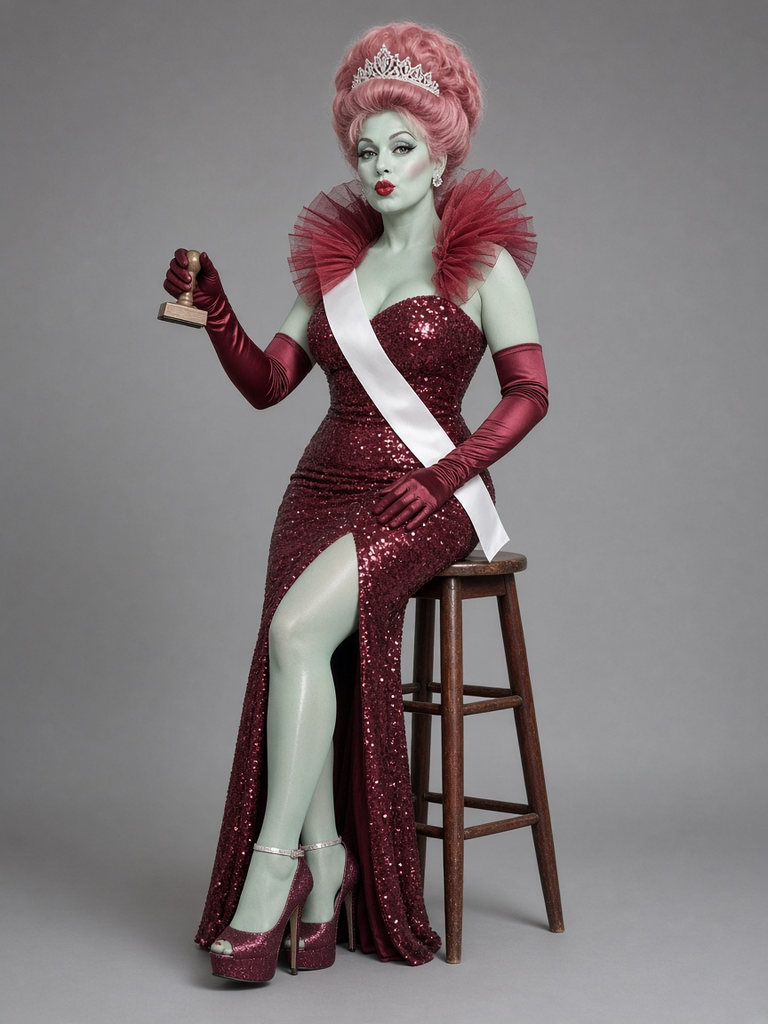
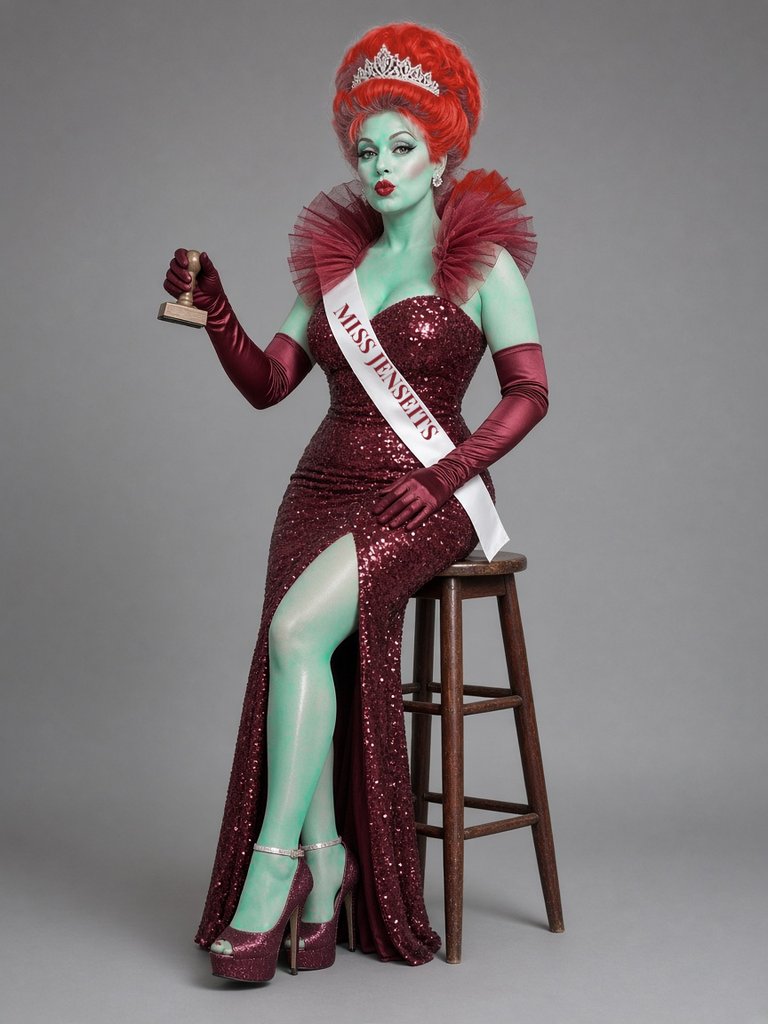
WIP Warteraum v7: Vertex-Licht für Figuren/Sofa, Licht angehoben, Königin teal/rot + Schärpe, Mittelsteg versetzt, Schirm-Verlauf, Handy-Tippen bis an die Hülle

diff --git a/v3/test/lib/gfx_warteraum.js b/v3/test/lib/gfx_warteraum.js
@@ -4,41 +4,50 @@
    Figuren-Hybrid: statische Körper (gebacken), bewegliche Teile (Kopf/Unterarm/Fuß/Buchseite) per Code um ihr Gelenk gedreht.
    Ton (WebAudio, positionsabhängig, startet nach der ersten Geste/VR-Start): Radio mit Fahrstuhlmusik (Kleinlautsprecher-Filter + Knistern),
    Leuchtstoff-Brummen, Uhr, Fallblatt-Klack + Ding, Husten/Blättern/Knarzen, dumpfe Stimmen/Schreibmaschine/Stempel aus dem Hinterbüro.
-   Debug: ?nolm=1 (ohne Lightmap) · ?lmg=1.2 (Lightmap-Gain) · ?mute=1 */
+   Debug: ?nolm=1 (ohne Lightmap) · ?lmg=1.2 (Lightmap-Gain) · ?lift=0.06 (Schatten-Anhebung) · ?vlg=1 (Vertex-Licht-Gain) · ?touchfix=0 · ?mute=1
+   v7 (1022w7): Figuren + Sofa tragen ihr Licht als gebackene Vertexfarbe (scene.json vl/vlScale) statt Lightmap → keine Flecken/Facetten mehr;
+   Lightmap angehoben (Film: gleichmäßiger, warm, Wände + Gesichter lesbar), Lampenschirme mit Verlauf + Falten, Handy-Tippen läuft bis an die Hülle. */
 (function(){
 const Q=location.search, num=(k,d)=>{ const m=Q.match(new RegExp('[?&]'+k+'=([\\d.]+)')); return m?+m[1]:d; };
 const BASE='../assets/warteraum/';
 AFRAME.registerComponent('warteraum',{
  init(){ const T=THREE, sc=this.el, self=this; this.t0=performance.now(); window.__wr={ready:false};
-  fetch(BASE+'scene.json?v=6b').then(r=>r.json()).then(S=>{ self.S=S; self.load(S); });
+  fetch(BASE+'scene.json?v=7b').then(r=>r.json()).then(S=>{ self.S=S; self.load(S); });
   this.loco(); this.audioArm(); },
  load(S){ const T=THREE, sc=this.el, self=this, R=sc.renderer;
-  const lm=new T.TextureLoader().load(BASE+'lm.jpg?v=6b'); lm.flipY=false; lm.channel=1; lm.colorSpace=T.SRGBColorSpace;
-  const LMI=Math.PI*(S.lmScale||1)*num('lmg',0.95); // v4 (Beetle): keine Neonröhren mehr – Licht kommt aus warmen Stehlampen, Sternleuchten, roter Pendel-Traube (alles gebacken)
-  const el=document.createElement('a-entity'); el.setAttribute('gltf-model',BASE+'warteraum.glb?v=6b'); sc.appendChild(el);
+  const lm=new T.TextureLoader().load(BASE+'lm.jpg?v=7b'); lm.flipY=false; lm.channel=1; lm.colorSpace=T.SRGBColorSpace;
+  const LMI=Math.PI*(S.lmScale||1)*num('lmg',1.0), LIFT=num('lift',0.05), VLN=new Set(S.vl||[]), VLG=(S.vlScale||1)*num('vlg',1.0); // v4 (Beetle): keine Neonröhren mehr – Licht kommt aus warmen Stehlampen, Sternleuchten, roter Pendel-Traube (alles gebacken)
+  const el=document.createElement('a-entity'); el.setAttribute('gltf-model',BASE+'warteraum.glb?v=7b'); sc.appendChild(el);
   el.addEventListener('model-loaded',()=>{ const root=el.getObject3D('mesh'); self.root=root; const mats=new Set(), M={}; self.nodes={};
    root.traverse(o=>{ if(o.name) self.nodes[o.name]=o; if(o.isMesh){ mats.add(o.material); o.frustumCulled=true; } });
    mats.forEach(m=>{ M[m.name]=m; m.envMapIntensity=0; if(m.map) m.map.anisotropy=8;
-    if(!/[?&]nolm=1/.test(Q)&&!/wr_glass|wr_emit|wr_flip|wr_shade/.test(m.name)){ m.lightMap=lm; m.lightMapIntensity=LMI;
-     // v4: warme Film-Stimmung (Lightmap kaum getönt; Grün nur aus Tür-Schacht und Schalter)
-     m.onBeforeCompile=sh=>{ sh.fragmentShader=sh.fragmentShader.replace('#include <lights_fragment_maps>',T.ShaderChunk.lights_fragment_maps.replace('lightMapTexel.rgb * lightMapIntensity','lightMapTexel.rgb * lightMapIntensity * vec3(1.0,0.97,0.92)')); }; m.customProgramCacheKey=()=>'wrlm'; }
+    if(VLN.has(m.name)){ // v7: gebackenes Vertex-Licht (Col = Tönung × Licht/vlScale) → als Eigenleuchten, gleiche Skala wie die Lightmap
+     m.lightMap=null; m.vertexColors=true; m.onBeforeCompile=sh=>{ sh.fragmentShader=sh.fragmentShader.replace('#include <emissivemap_fragment>','#include <emissivemap_fragment>\n totalEmissiveRadiance += diffuseColor.rgb * '+VLG.toFixed(4)+' * vec3(1.0,0.97,0.92);'); };
+     m.customProgramCacheKey=()=>'wrvl'+VLG.toFixed(3); }
+    else if(!/[?&]nolm=1/.test(Q)&&!/wr_glass|wr_emit|wr_flip|wr_shade/.test(m.name)){ m.lightMap=lm; m.lightMapIntensity=LMI;
+     // v4: warme Film-Stimmung (Lightmap kaum getönt; Grün nur aus Tür-Schacht und Schalter); v7: Schatten sanft angehoben (lift), Lichtinseln bleiben
+     m.onBeforeCompile=sh=>{ sh.fragmentShader=sh.fragmentShader.replace('#include <lights_fragment_maps>',T.ShaderChunk.lights_fragment_maps.replace('lightMapTexel.rgb * lightMapIntensity','( lightMapTexel.rgb + '+LIFT.toFixed(3)+' * (1.0 - lightMapTexel.rgb) ) * lightMapIntensity * vec3(1.0,0.97,0.92)')); }; m.customProgramCacheKey=()=>'wrlm'+LIFT.toFixed(3); }
     if(m.metalness>0.2) m.metalness=0.35; m.needsUpdate=true; });
    // Sonder-Materialien
    const swap=(name,mk)=>{ const old=M[name]; if(!old) return; const nm=mk(old); root.traverse(o=>{ if(o.isMesh&&o.material===old) o.material=nm; }); M[name]=nm; };
    swap('wr_emit',o=>new T.MeshBasicMaterial({color:new T.Color(0x6cd858).multiplyScalar(0.9),vertexColors:false,fog:false}));
-   swap('wr_glass',o=>new T.MeshStandardMaterial({color:0x9ab0a8,roughness:0.1,metalness:0,transparent:true,opacity:0.13,depthWrite:false}));
-   if(M.wr_shade){ M.wr_shade.emissive=new T.Color(0xd09050); M.wr_shade.emissiveMap=M.wr_shade.map; M.wr_shade.emissiveIntensity=0.62; M.wr_shade.side=T.DoubleSide; } // v4: Schirm ohne Lightmap (Hunyuan-Inseln), leuchtet gleichmäßig von innen, nicht ausgebrannt
+   swap('wr_glass',o=>new T.MeshStandardMaterial({color:0xa8b4ac,roughness:0.1,metalness:0,transparent:true,opacity:0.06,depthWrite:false})); // v7: Scheibe kaum sichtbar (Schönheitskönigin klar zu sehen)
+   if(M.wr_shade){ const sh_=M.wr_shade; sh_.emissive=new T.Color(0xc88a4c); sh_.emissiveMap=sh_.map; sh_.emissiveIntensity=0.6; sh_.side=T.DoubleSide; // v4: Schirm ohne Lightmap (Hunyuan-Inseln)
+    // v7: nicht mehr flach – heller zur Unterkante (Licht fällt nach unten raus), oben dunkler, senkrechte Stofffalten, innen etwas wärmer; Spitzen bleiben unter Weiß (kein Hotspot)
+    const LC=(S.lamps||[]).slice(0,3).map(p=>new T.Vector3(p[0],p[1],p[2])); while(LC.length<3) LC.push(new T.Vector3(99,0,99));
+    sh_.onBeforeCompile=sh=>{ sh.uniforms.lc={value:LC};
+     sh.vertexShader=sh.vertexShader.replace('#include <common>','#include <common>\nvarying vec3 vWp;').replace('#include <worldpos_vertex>','#include <worldpos_vertex>\nvWp=(modelMatrix*vec4(transformed,1.0)).xyz;');
+     sh.fragmentShader=sh.fragmentShader.replace('#include <common>','#include <common>\nvarying vec3 vWp; uniform vec3 lc[3];').replace('#include <emissivemap_fragment>',`#include <emissivemap_fragment>
+      vec3 c0=lc[0]; float dm=distance(vWp.xz,lc[0].xz); for(int i=1;i<3;i++){ float d=distance(vWp.xz,lc[i].xz); if(d<dm){ dm=d; c0=lc[i]; } }
+      float hh=clamp((vWp.y-(c0.y-0.17))/0.45,0.0,1.0); float ang=atan(vWp.z-c0.z,vWp.x-c0.x);
+      float pleat=0.80+0.20*pow(abs(sin(ang*13.0)),0.55); float weave=0.95+0.05*sin(ang*170.0)*sin(vWp.y*260.0); float grad=mix(1.22,0.42,smoothstep(0.0,1.0,hh));
+      float ndv=abs(dot(normalize(normal),normalize(vViewPosition))); float thru=mix(0.62,1.0,ndv);   // durchleuchteter Stoff: Mitte heller, Ränder dunkler
+      totalEmissiveRadiance*=grad*pleat*weave*thru*(gl_FrontFacing?1.0:1.15);`); };
+    sh_.customProgramCacheKey=()=>'wrshade7'; }
    if(M.wr_noexit){ M.wr_noexit.emissive=new T.Color(0xb8d8a8); M.wr_noexit.emissiveMap=M.wr_noexit.map; M.wr_noexit.emissiveIntensity=0.5; }
    if(M.wr_vinyl){ M.wr_vinyl.roughness=0.72; } // Sofa/Sessel: mattes altes Kunstleder, keine Glanzstreifen
-   // Sofa (Hunyuan): die gebackene Lightmap hat auf der Rückenlehne einen zackigen dunklen Fleck (überlappende UV-Inseln) → Sofa-Dreiecke als eigener
-   // Draw (+1) ohne Lightmap, gleichmäßig warm von innen + Stehlampen-Licht. ?sofalm=1 = alter Zustand.
-   if(M.wr_vinyl&&!/[?&]sofalm=1/.test(Q)){ const todo=[]; root.traverse(o=>{ if(o.isMesh&&o.material===M.wr_vinyl&&o.geometry.index) todo.push(o); });
-    const sm=M.wr_vinyl.clone(); sm.lightMap=null; sm.emissive=new T.Color(0x4c3a28); sm.emissiveMap=sm.map; sm.emissiveIntensity=1; sm.roughness=0.75;
-    todo.forEach(o=>{ const g=o.geometry, P=g.attributes.position, I=g.index, keep=[], sofa=[];
-     for(let i=0;i<I.count;i+=3){ const a=I.getX(i), b=I.getX(i+1), c=I.getX(i+2); const x=(P.getX(a)+P.getX(b)+P.getX(c))/3, y=(P.getY(a)+P.getY(b)+P.getY(c))/3, z=(P.getZ(a)+P.getZ(b)+P.getZ(c))/3;
-      (x>1.95&&y<0.9&&z>-0.65&&z<1.42?sofa:keep).push(a,b,c); }
-     if(!sofa.length) return; g.setIndex(keep); const g2=new T.BufferGeometry(); Object.entries(g.attributes).forEach(([k,v])=>g2.setAttribute(k,v)); g2.setIndex(sofa); g2.computeBoundingSphere(); g2.computeBoundingBox();
-     const me=new T.Mesh(g2,sm); me.name='wr_sofa'; o.add(me); }); M.wr_sofa=sm; }
+   // v7: Sofa = eigenes Material wr_sofa (Vertex-Licht mit Kontaktschatten, warmes Beige) – der v6-Sonderdraw ohne Licht entfällt
+   if(M.wr_sofa){ M.wr_sofa.roughness=0.72; }
    if(M.wr_redglass){ M.wr_redglass.emissive=new T.Color(0x4a1a12); M.wr_redglass.emissiveIntensity=0.24; M.wr_redglass.roughness=0.6; M.wr_redglass.side=T.DoubleSide; }
    // Fallblatt-Anzeige: Canvas (Text per Code)
    const cv=document.createElement('canvas'); cv.width=512; cv.height=148; const cx=cv.getContext('2d'); const ft=new T.CanvasTexture(cv); ft.colorSpace=T.SRGBColorSpace; ft.anisotropy=8; self.flip={cv,cx,tex:ft,n:4,anim:0};
@@ -48,8 +57,8 @@ AFRAME.registerComponent('warteraum',{
    // assets/warteraum/pinups_adult.jpg geladen – fehlt die Datei, bleibt die Standard-Fassung. Gleiche Zellen-Aufteilung (2 × 512×683 oben links/rechts, 1024²).
    if(M.wr_pinup){ M.wr_pinup.emissive=new T.Color(0x000000); if(window.ZS_ADULT){ new T.TextureLoader().load(BASE+'pinups_adult.jpg?v=1',tx=>{ tx.flipY=false; tx.colorSpace=T.SRGBColorSpace; tx.anisotropy=8; M.wr_pinup.map=tx; M.wr_pinup.needsUpdate=true; },undefined,()=>{}); } }
    // Lichter (max 4): Hemi + grünes Fenster + 2 warme Stehlampen (Film: keine Deckenröhren; Rest der Lichtinseln steckt in der Lightmap)
-   const hemi=new T.HemisphereLight(0x4a4236,0x0c0b09,0.30); sc.object3D.add(hemi);
-   const gw=S.window; const green=new T.PointLight(0x78ff60,0.55,4.0,2); green.position.set(gw[0],gw[1],gw[2]); sc.object3D.add(green);
+   const hemi=new T.HemisphereLight(0x6a5a46,0x16120e,0.42); // v7: wärmer, heller (Film) sc.object3D.add(hemi);
+   const gw=S.window; const green=new T.PointLight(0x9ee08a,0.32,3.2,2); green.position.set(gw[0],gw[1]+0.25,gw[2]+0.35); // v7: schwächer, weniger gesättigt, vor der Scheibe (kein grüner Schleier über ihr) sc.object3D.add(green);
    const LP=S.lamps||[]; const warmL=[LP[0],null].map((p,i)=>{ const l=new T.PointLight(0xffb070,i?1.0:1.3,3.8,2); if(p) l.position.set(p[0],p[1]-0.12,p[2]); else { const A=S.anchors.assi; l.position.set(A[0]-1.1,1.55,A[2]); } sc.object3D.add(l); return l; }); // 2. Licht: warmes Raumlicht vor dem Sofa (Gesicht der Assistentin)
    const FX=LP.slice(0,2).map(p=>[p[0],p[2]]); const ch=()=>2.6;
    self.L={hemi,green,warm:warmL};
@@ -84,7 +93,7 @@ AFRAME.registerComponent('warteraum',{
   const qa=new T.Quaternion();
   this.mov.forEach(m=>{ const u=s*m.sp+m.ph; let a=0;
    switch(m.kind){
-    case 'head': a=0.22*Math.sin(u*0.21)+0.1*Math.sin(u*0.53+1.3); if(m.n==='brand_head') a+=0.05*(Math.sin(u*7.1)>0.97?1:0); if(m.n==='jaeger_head') a=0.35*Math.sin(u*0.35); break;
+    case 'head': a=0.22*Math.sin(u*0.21)+0.1*Math.sin(u*0.53+1.3); if(m.n==='frl_head') a*=0.18; // v7: Königin schaut nach vorn (Pete 02), kaum Drehung → keine Doppelkontur aus der Frontprojektion if(m.n==='brand_head') a+=0.05*(Math.sin(u*7.1)>0.97?1:0); if(m.n==='jaeger_head') a=0.35*Math.sin(u*0.35); break;
     case 'arm': { const c=(u%11)/11; const lift=c<0.12?c/0.12:c<0.45?1:c<0.6?1-(c-0.45)/0.15:0; a=(m.n==='brand_arm'?-0.55:m.n==='frl_arm'?0:-0.18)*(lift*lift*(3-2*lift));
        if(m.n==='frl_arm'){ const p=(u%4.3)/4.3; a=p<0.06?-0.45*p/0.06:p<0.12?-0.45*(1-(p-0.06)/0.06):0; if(p>=0.06&&m.last<0.06) this.sfx('stamp'); m.last=p; }
        if(m.n==='gruen_arm') a=-0.12*Math.max(0,Math.sin(u*0.4))*Math.sin(u*3); break; }
@@ -98,11 +107,11 @@ AFRAME.registerComponent('warteraum',{
   const S=this.smoke; if(S){ for(let i=0;i<S.N;i++){ S.age[i]+=d; if(S.age[i]>4) S.age[i]-=4; const k=S.age[i]/4; S.P[i*3]=S.base.x+0.04*Math.sin(k*9+i)+k*0.05; S.P[i*3+1]=S.base.y+k*0.55; S.P[i*3+2]=S.base.z+0.04*Math.cos(k*7+i); S.A[i]=Math.sin(k*Math.PI)*(1-k*0.5); } S.g.attributes.position.needsUpdate=true; S.g.attributes.alpha.needsUpdate=true; }
   const D=this.motes; if(D){ for(let i=0;i<D.N;i++){ const k=i*3, u=s*0.05+i*1.7; D.P[k]=D.S0[k]+0.12*Math.sin(u*0.9+i); D.P[k+1]=D.S0[k+1]+0.10*Math.sin(u*0.6+i*0.3)-((s*0.012+i*0.37)%1)*0.08; D.P[k+2]=D.S0[k+2]+0.12*Math.cos(u*0.7+i*2.1); } D.g.attributes.position.needsUpdate=true; }
   // Leuchtstoff-Flackern (grünes Licht), ganz leicht
-  if(this.L){ const f=Math.random()<0.004?0.45:1; this.L.green.intensity+=((0.55*f)-this.L.green.intensity)*0.3; }
+  if(this.L){ const f=Math.random()<0.004?0.45:1; this.L.green.intensity+=((0.32*f)-this.L.green.intensity)*0.3; }
   // Fallblatt: alle 35–70 s eine Nummer weiter
   const F=this.flip; if(F){ if(!F.next) F.next=s+20+Math.random()*20; if(s>F.next&&!F.anim){ F.anim=s; this.sfx('flip'); }
    if(F.anim){ const k=(s-F.anim)/0.35; if(k>=1){ F.n++; this.drawFlip(F.n,F.n,1); F.anim=0; F.next=s+35+Math.random()*35; } else this.drawFlip(F.n,F.n+1,k); } }
-  this.clamp(); this.locoTick(d); this.audioTick(s); },
+  this.touchFix(); this.clamp(); this.locoTick(d); this.audioTick(s); },
  // ---------------- Bewegung (L-Stick gehen, R-Stick drehen; Desktop WASD) ----------------
  loco(){ this.ax=[0,0]; this.snap=0; setTimeout(()=>{ const L=document.getElementById('hl'), Rr=document.getElementById('hr');
   L&&L.addEventListener('thumbstickmoved',e=>{ this.ax=[e.detail.x,e.detail.y]; });
@@ -151,6 +160,22 @@ AFRAME.registerComponent('warteraum',{
   // Sicherheitsnetz: widersprechen sich zwei Zonen (enge Nische), bleibt der Kopf an der letzten freien Stelle statt in einem Modell
   if(!this.free(p)&&this.lastFree){ p.x=this.lastFree.x; p.z=this.lastFree.z; } else if(this.free(p)) this.lastFree={x:p.x,z:p.z};
   return p; },
+ // v7: Handy-Tippen (touchctl) – Ziel in/an einer Sperrzone (Figur samt Stuhl, Möbel) → neues Ziel = nächste freie Stelle am Rand der Zone,
+ // 6 cm hineingeschoben: die Kollision hält den Kopf an der Kante (0,12 m Figur / 0,15 m Möbel), touchctl ist dann "angekommen" (≤8 cm).
+ // Vorher blieb das Gehen 0,2–0,6 m davor stehen (Tipp auf eine Figur = 0,45 m vor dem Treffpunkt, bzw. Hänger-Erkennung beim Anlaufen). ?touchfix=0 = alt.
+ touchFix(){ const Z=window.ZSTouch; if(!Z||!Z.active||!Z.dbg||!Z.walkTo||!this.cols||/[?&]touchfix=0/.test(Q)||this.el.renderer.xr.isPresenting) return;
+  const w=Z.dbg().walk; if(!w||!w.p||w.stop>0.6){ return; } const k=w.p.x.toFixed(3)+','+w.p.z.toFixed(3); if(k===this._tw) return; this._tw=k;
+  const g={x:w.p.x,z:w.p.z}; if(this.free(g)&&(w.stop<0.1||!this.nearZone(g,0.5))) return;   // freier Boden-Tipp / Wand: nichts tun
+  // nächste freie Stelle am Ziel (48 Richtungen, je erste freie Stelle nach außen), leicht zur Spielerseite gewichtet (nie hinter die Stühle)
+  const h=this.head(); let best=null;
+  for(let i=0;i<48;i++){ const a=i/48*2*Math.PI, ux=Math.cos(a), uz=Math.sin(a);
+   for(let r=0;r<=1.2;r+=0.01){ const p={x:g.x+ux*r,z:g.z+uz*r}; if(p.x<-2.6||p.x>2.5||p.z<-2.15||p.z>2.15) break; if(this.free(p)&&this.nearZone(p,0.135)!==2){ const c=r+0.25*Math.hypot(h.x-p.x,h.z-p.z); if(!best||c<best.c) best={c,x:p.x,z:p.z,ux,uz}; break; } } }
+  if(!best) return; const nx=best.x-best.ux*0.06, nz=best.z-best.uz*0.06;   // 6 cm in die Zone: die Kollision hält den Kopf an der Kante, touchctl gilt als angekommen
+  this._tw=nx.toFixed(3)+','+nz.toFixed(3); this._touchGoal={x:nx,z:nz,edge:[best.x,best.z],from:k}; Z.walkTo(nx,nz); },
+ // 0 = weit weg, 1 = innerhalb r an einer Zone, 2 = in einer Hülle bzw. näher als ihr Rand
+ nearZone(p,r){ let res=0; for(const [a0,a1,b0,b1] of this.cols||[]){ const dx=Math.max(a0-p.x,0,p.x-a1), dz=Math.max(b0-p.z,0,p.z-b1); if(Math.hypot(dx,dz)<r) res=1; }
+  for(const h of this.hulls||[]){ const H=h.H, n=H.length; let ins=true, md=1e9; for(let i=0;i<n;i++){ const a=H[i], b=H[(i+1)%n]; const ex=b[0]-a[0], ez=b[1]-a[1]; const L2=ex*ex+ez*ez; if(L2<1e-12) continue; if(ex*(p.z-a[1])-ez*(p.x-a[0])<0) ins=false; const t=Math.max(0,Math.min(1,((p.x-a[0])*ex+(p.z-a[1])*ez)/L2)); md=Math.min(md,Math.hypot(p.x-a[0]-ex*t,p.z-a[1]-ez*t)); }
+   if(ins||md<h.m) return 2; if(md<r+h.m) res=1; } return res; },
  free(p){ for(const [a0,a1,b0,b1] of this.cols||[]) if(p.x>a0+5e-4&&p.x<a1-5e-4&&p.z>b0+5e-4&&p.z<b1-5e-4) return false; // auch Möbel/Tür: Rückfallpunkt nie in einem Möbel
  for(const h of this.hulls||[]){ const H=h.H, n=H.length; let ins=true, md=1e9; for(let i=0;i<n;i++){ const a=H[i], b=H[(i+1)%n]; const ex=b[0]-a[0], ez=b[1]-a[1]; const L2=ex*ex+ez*ez; if(L2<1e-12) continue; if(ex*(p.z-a[1])-ez*(p.x-a[0])<0) ins=false; const t=Math.max(0,Math.min(1,((p.x-a[0])*ex+(p.z-a[1])*ez)/L2)); md=Math.min(md,Math.hypot(p.x-a[0]-ex*t,p.z-a[1]-ez*t)); } if(ins||md<h.m*0.9) return false; } return true; },
  clamp(){ if(!this.cols) return; const h=this.head(), rig=document.getElementById('rig').object3D, cam=document.getElementById('cam').object3D;

diff --git a/v3/test/era_warteraum.html b/v3/test/era_warteraum.html
@@ -2,14 +2,14 @@
 <meta name="viewport" content="width=device-width,initial-scale=1">
 <script src="https://aframe.io/releases/1.7.1/aframe.min.js"></script><script src="lib/touchctl.js?v=1022z3"></script><script src="lib/helpmenu.js?v=1022z2"></script>
 <script src="lib/alpha.js?v=1022z3"></script><!-- Spiel-Ablauf (Hauptspiel-Bot): Abstecher aus den Backrooms, Rückweg durch NO EXIT -->
-<script src="lib/gfx_warteraum.js?v=6beetle2"></script>
+<script src="lib/gfx_warteraum.js?v=7beetle1"></script>
 <style>@font-face{font-family:"Barlow Condensed";src:url(../fonts/Rajdhani-Bold.ttf)}
 #hud{position:fixed;left:12px;top:10px;z-index:5;color:#cfe0c8;font:600 14px/1.35 sans-serif;background:rgba(0,0,0,.5);padding:8px 12px;border-radius:10px;max-width:480px}
 #ff{position:fixed;inset:0;z-index:4;pointer-events:none;background:radial-gradient(ellipse at 50% 45%,rgba(0,0,0,0) 55%,rgba(0,0,0,.55) 100%);mix-blend-mode:multiply}
 #grain{position:fixed;inset:0;z-index:4;pointer-events:none;width:100%;height:100%;opacity:.07;image-rendering:pixelated}</style></head><body>
 <div id="hud"><b>Warteraum · Jenseits-Bürgeramt</b> (Testszene)<br>VR: L-Stick gehen · R-Stick drehen · Ton startet mit dem ersten Trigger<br>Desktop: WASD · Maus ziehen · Klick = Ton an</div>
 <a-scene warteraum renderer="colorManagement:true; antialias:true; foveationLevel:0.2" webxr="referenceSpaceType:local-floor"
- fog="type:exponential; color:#0d1513; density:0.05" background="color:#000" light="defaultLightsEnabled:false">
+ fog="type:exponential; color:#15140f; density:0.036" background="color:#000" light="defaultLightsEnabled:false">
  <a-entity id="rig" position="0.3 0 1.7">
   <a-camera id="cam" position="0 1.6 0" wasd-controls="acceleration:18"></a-camera>
   <a-entity id="hl" laser-controls="hand:left" raycaster="objects:.clickable; far:6; lineOpacity:0.2"></a-entity>

diff --git a/v3/tools/gfx_warteraum/build_room.py b/v3/tools/gfx_warteraum/build_room.py
@@ -37,7 +37,8 @@ MT=dict(
  paint=M('wr_paint','paintings.png',None,0.45), signs=M('wr_signs','signs.png',None,0.5), paper=M('wr_paper','paper.png',None,0.85),
  glass=M('wr_glass',None,None,0.08,0.0,alpha=0.15), redglass=M('wr_redglass',None,None,0.25), fig=M('wr_fig','fig_col.png',None,0.62),
  emit=M('wr_emit',None,None,1.0,emit=(0x9cff7a,6.0)), flip=M('wr_flip',None,None,0.6), noexit=M('wr_noexit','signs.png',None,0.5),
- pinup=M('wr_pinup','pinups.png',None,0.38))   # v4: Pin-ups (gen_beetle.py) – eigene, austauschbare Textur
+ pinup=M('wr_pinup','pinups.png',None,0.38),
+ sofa=M('wr_sofa','fig_col.png',None,0.7))   # v7: Sofa mit eigenem Material – Licht als Vertexfarbe gebacken (Hunyuan-UV-Inseln machten Flecken in der Lightmap)   # v4: Pin-ups (gen_beetle.py) – eigene, austauschbare Textur
 AX={}
 MOVERS=[]  # bewegliche Teile (eigene Objekte, Ursprung = Gelenk)
 # ------------------------------------------------------------------ Raumhülle (Caligari: schräge Wände, Boden flach y=0)
@@ -139,10 +140,10 @@ def corrugated(a0,a1,b0,b1,hole,per=0.076,amp=0.017):
 co=corrugated(2.75,5.35,0.0,2.58,WIN); smooth(co); vc_const(co,0xffffff); onwall(co,WN)
 # Fensterrahmen + Mittelsteg + 2 Schiebescheiben
 fr=[]
-for (a0,a1,b0,b1) in [(WIN[0]-0.05,WIN[1]+0.05,WIN[3],WIN[3]+0.06),(WIN[0]-0.05,WIN[0],WIN[2],WIN[3]),(WIN[1],WIN[1]+0.05,WIN[2],WIN[3]),(3.98,4.02,WIN[2],WIN[3])]:
+for (a0,a1,b0,b1) in [(WIN[0]-0.05,WIN[1]+0.05,WIN[3],WIN[3]+0.06),(WIN[0]-0.05,WIN[0],WIN[2],WIN[3]),(WIN[1],WIN[1]+0.05,WIN[2],WIN[3]),(4.43,4.47,WIN[2],WIN[3])]:   # v7: Mittelsteg nach rechts (stand vor dem Gesicht der Schönheitskönigin)
     fr.append(wbox(WN,a0,a1,b0,b1,-0.02,0.09,MT['metal']))
 o=join(fr,'win_frame'); vc_const(o,0x4a504a); onwall(o,WN)
-g1=wbox(WN,WIN[0],4.04,WIN[2],WIN[3],0.035,0.04,MT['glass']); g2=wbox(WN,3.96,WIN[1],WIN[2],WIN[3],0.06,0.065,MT['glass']); o=join([g1,g2],'win_glass'); vc_const(o,0xb8c8c0); onwall(o,WN)
+g1=wbox(WN,WIN[0],4.49,WIN[2],WIN[3],0.035,0.04,MT['glass']); g2=wbox(WN,4.41,WIN[1],WIN[2],WIN[3],0.06,0.065,MT['glass']); o=join([g1,g2],'win_glass'); vc_const(o,0xb8c8c0); onwall(o,WN)
 # Theke: Front Craquelé, Platte darüber
 t=wbox(WN,3.0,5.05,0.0,1.0,0.02,0.52,MT['crack']); box_uv(t,1.0); vc_const(t,0xffffff); onwall(t,WN)
 t=wbox(WN,2.95,5.1,1.0,1.05,-0.22,0.58,MT['crack'],bev=0.008); box_uv(t,1.0); vc_const(t,0xd0d0d0); onwall(t,WN)
@@ -402,7 +403,7 @@ def hy_lamp(x,y,name,base=0x3e6a48):
     return (x,y,0.84*H)
 def hy_sofa(x,y,yaw):
     v,t=hy_mesh('sofa',0.86)
-    o=hy_prop('sofa',v,t,[('legs',MT['wood'],0x1e140c,2.0,lambda c:c[:,2]<0.11),('body',MT['vinyl'],0xa89a7c,1.6,lambda c:c[:,2]>-1)],x,y,yaw)
+    o=hy_prop('sofa',v,t,[('legs',MT['wood'],0x1e140c,2.0,lambda c:c[:,2]<0.11),('body',MT['sofa'],0xae9c82,1.6,lambda c:c[:,2]>-1)],x,y,yaw)   # v7: wärmeres Beige wie Pete 06
     m=(_np.abs(v[:,0])<0.55)&(v[:,1]>0.0)&(v[:,1]<0.3)&(v[:,2]<0.65); seat=float(v[m,2].max())
     zb=(v[:,2]>seat+0.10)&(v[:,2]<seat+0.30)&(_np.abs(v[:,0])<0.6)&(v[:,1]<0.1); back=float(v[zb,1].max())
     print('Sofa Sitz',round(seat,3),'Lehne vorn',round(back,3)); return seat,back
@@ -618,6 +619,30 @@ def hy_figures():
                 AX[o.name]=((Matrix.Rotation(yaw,3,'Z')@V(o['axis'])).normalized(),o['kind']); MOVERS.append(o)
             else: o.data.transform(T)
             wr_lib.OBJS.append(o)
+    # v7: Mesh-Fixes. Assistentin: flache Dezimier-Facetten am Dekolleté glätten (Laplace, weich auslaufend);
+    # Oma: Kopf einmal unterteilen (1,3k -> ~8k Tris), damit das Gesicht rund statt facettiert ist.
+    def smooth_region(o,ctr,rad,it=12,fac=0.55):
+        vg=o.vertex_groups.new(name='sm')
+        for v in o.data.vertices:
+            d=((v.co.x-ctr[0])/rad[0])**2+((v.co.z-ctr[2])/rad[2])**2
+            if d<1 and v.co.y>ctr[1]: vg.add([v.index],float((1-d)**0.7),'REPLACE')
+        md=o.modifiers.new('sm','SMOOTH'); md.factor=fac; md.iterations=it; md.vertex_group='sm'; apply_mods(o); o.vertex_groups.clear()
+    # v7: Verdeckungs-Abdunklung aus fig_proc ist pro Fläche (0.6/1.0) → harte Dreiecks-Flecken (Oma-Gesicht, Dekolleté, Gesicht der Königin).
+    # Hier je Vertex mitteln (2x mit den Nachbarn glätten), dann ist die Abdunklung weich.
+    import numpy as _np2
+    for o in objs.values():
+        me=o.data
+        if o.type!='MESH' or 'Col' not in me.color_attributes: continue
+        ca=me.color_attributes['Col']; nl=len(me.loops); nv=len(me.vertices)
+        c=_np2.zeros(nl*4,_np2.float32); ca.data.foreach_get('color',c); c=c.reshape(nl,4); vi=_np2.zeros(nl,_np2.int32); me.loops.foreach_get('vertex_index',vi)
+        acc=_np2.zeros((nv,3),_np2.float32); cnt=_np2.zeros(nv,_np2.float32); _np2.add.at(acc,vi,c[:,:3]); _np2.add.at(cnt,vi,1); pv=acc/_np2.maximum(cnt,1)[:,None]
+        e=_np2.zeros(len(me.edges)*2,_np2.int32); me.edges.foreach_get('vertices',e); e=e.reshape(-1,2)
+        for _ in range(2):
+            a2=pv.copy(); n2=_np2.ones(nv,_np2.float32); _np2.add.at(a2,e[:,0],pv[e[:,1]]); _np2.add.at(a2,e[:,1],pv[e[:,0]]); _np2.add.at(n2,e[:,0],1); _np2.add.at(n2,e[:,1],1); pv=a2/n2[:,None]
+        c[:,:3]=pv[vi]; ca.data.foreach_set('color',c.ravel())
+    hp=objs['assi_head']['piv'] if 'piv' in objs['assi_head'] else (0.024,-0.205,1.019)
+    smooth_region(objs['assi_body'],(hp[0],hp[1]-0.02,hp[2]-0.09),(0.16,0,0.12))
+    oh=objs['oma_head']; md=oh.modifiers.new('ss','SUBSURF'); md.levels=1; md.render_levels=1; md.uv_smooth='PRESERVE_BOUNDARIES'; apply_mods(oh); smooth(oh)
     def depth(n): return max(abs(v.co.y) for v in objs[n+'_body'].data.vertices)
     for n,key in [('oma','k'),('gruen','c'),('brand','club'),('jaeger','h')]:
         a_={'k':0.80,'c':1.50,'club':2.30,'h':4.15}[key]; x,y=wpos(a_,depth(n)+0.05); CH[key]=(x,y); put(n,x,y,wyaw)
@@ -659,7 +684,7 @@ def hy_figures():
         return out
     cap('cap_legs',objs['assi_legs'],True); cap('cap_body',objs['assi_body'],False)
     # Fräulein hinter dem Schalter (auf hohem Hocker)
-    cp=WP(WN,4.0,0,-0.42); put('frl',cp.x,cp.y,math.pi,z=0.0)   # v4: steht mit eigenem Barhocker am Boden
+    cp=WP(WN,4.0,0,-0.40); put('frl',cp.x,cp.y,math.pi,z=0.11)   # v4: Barhocker; v7: 11 cm höher + näher ans Glas (Oberkörper füllt das Fenster wie Pete 02, Füße hinter der Theke)
     # v4: Mann in der blauen Steppdecke steht neben der NO-EXIT-Tür (Pete 06)
     put('decke',-0.42,-2.08,0.22)
     return cp
@@ -767,18 +792,21 @@ SCON=[(WN,1.75,1.62),(WW,2.10,1.74),(WS,3.2,1.9)]
 for i,(W,a,b) in enumerate(SCON): plight('scon%d'%i,WP(W,a,b,0.035),(1.0,0.55,0.25),32,0.02)   # v4: großer Stern = echte Lichtinsel (Pete 03/05)
 for i,p in enumerate(REDL): plight('red%d'%i,p,(1.0,0.36,0.2),3.2,0.03)
 plight('shaft',((xa+xb)/2,SY+0.12,1.3),GREEN,260,kind='AREA',size=(xb-xa-0.05,2.4),rot=(-math.pi/2,0,0))
-plight('office',(1.1,3.25,OZ-0.12),(0.62,1.0,0.6),80,kind='AREA',size=(1.8,0.9))
-plight('fill',(0,0,2.55),(0.70,0.62,0.52),16,kind='AREA',size=(5.0,4.0))   # v4: warm statt kalt
+plight('office',(1.1,3.25,OZ-0.12),(0.72,1.0,0.68),55,kind='AREA',size=(1.8,0.9))   # v7: weniger Grün über der Schönheitskönigin
+plight('counter',tuple(WP(WN,4.0,1.62,0.75)),(1.0,0.72,0.5),14,0.08)   # v7: warmes Licht von vorn auf ihr Gesicht (Pete 02)
+plight('fill',(0,0,2.55),(0.74,0.64,0.52),46,kind='AREA',size=(5.0,4.0))   # v4: warm statt kalt; v7: fast 3x (Film gleichmäßiger, Wände/Gesichter lesbar)
 plight('noexit_l',((xa+xb)/2,-2.25,2.12),(0.55,1.0,0.5),3.0,0.03)
 plight('radio',(RADIO[0]+0.13,RADIO[1]+0.25,RADIO[2]+0.17),(1.0,0.7,0.35),0.6,0.01)
-w=bpy.data.worlds.new('w'); sc.world=w; w.use_nodes=True; w.node_tree.nodes['Background'].inputs[0].default_value=(0.03,0.04,0.04,1); w.node_tree.nodes['Background'].inputs[1].default_value=0.18
+w=bpy.data.worlds.new('w'); sc.world=w; w.use_nodes=True; w.node_tree.nodes['Background'].inputs[0].default_value=(0.05,0.046,0.04,1); w.node_tree.nodes['Background'].inputs[1].default_value=0.30   # v7: wärmer, heller
 # Rauch-/Sound-Ankerpunkte
 def fpt(x,y,yaw,p): return tuple(Matrix.Translation((x,y,0))@Matrix.Rotation(yaw,4,'Z')@V(p))
 ANCH={'smoke':SMOKE or fpt(*CH['club'],wyaw,(0.22,0.25,0.95)),'radio':(RADIO[0],RADIO[1],RADIO[2]+0.15),'office':(1.1,3.2,1.3),'clock':(CX,CY,CZ),'flip':tuple(WP(WN,4.0,2.18,0.2)),'tube':(0.7,0.5,2.6),
       'oma':fpt(*CH['k'],wyaw,(0,0.3,0.8)),'gruen':fpt(*CH['c'],wyaw,(0,0.2,1.0)),'brand':fpt(*CH['club'],wyaw,(0,0.1,1.0)),'jaeger':fpt(*CH['h'],wyaw,(0,0.1,1.0)),'taucher':(DIVER[0],DIVER[1],1.0),'assi':(SOFA[0],SOFA[1],0.9),'frl':tuple(cp)}
 # ================================================================== Lightmap-UVs (UV1 'lm'), gemeinsamer Atlas
 NOLM={'win_glass','off_glow','sh_glow','tube','flip_face'}
-BAKE=[o for o in bpy.data.objects if o.type=='MESH' and o.name not in NOLM]
+def is_vl(o): return o.type=='MESH' and o.material_slots and o.material_slots[0].material and (o.material_slots[0].material.name.startswith('wr_fig_') or o.material_slots[0].material.name=='wr_sofa')
+VLOBJ=[o for o in bpy.data.objects if is_vl(o)]   # v7: Hunyuan-Figuren + Sofa: Licht als Vertexfarbe (Lightmap-Inseln auf dezimierten Meshes = Flecken/Facetten)
+BAKE=[o for o in bpy.data.objects if o.type=='MESH' and o.name not in NOLM and o not in VLOBJ]
 for o in BAKE:
     if 'lm' not in o.data.uv_layers: o.data.uv_layers.new(name='lm')
     o.data.uv_layers.active=o.data.uv_layers['lm']; o.data.uv_layers['UVMap'].active_render=True
@@ -814,6 +842,32 @@ if not NOBAKE:
     for o in bpy.data.objects: o.hide_render=True
     bpy.ops.render.render(write_still=True); sc.use_nodes=False; sc.render.engine='CYCLES'
     for o in bpy.data.objects: o.hide_render=False
+VLSCALE=1.0; VLMATS=sorted({o.material_slots[0].material.name for o in VLOBJ})
+if not NOBAKE and VLOBJ:   # v7: Vertex-Licht backen (Cycles, Ziel Vertexfarbe), glätten, mit der Tönung in 'Col' multiplizieren
+    import numpy as np, time; t0=time.time()
+    for o in VLOBJ:
+        ca=o.data.color_attributes.new('VL','FLOAT_COLOR','POINT'); o.data.color_attributes.active_color=ca
+    for o in bpy.context.selected_objects: o.select_set(False)
+    for o in VLOBJ: o.select_set(True)
+    bpy.context.view_layer.objects.active=VLOBJ[0]; sc.cycles.samples=max(SPP*6,512)
+    bpy.ops.object.bake(type='DIFFUSE',pass_filter={'DIRECT','INDIRECT'},target='VERTEX_COLORS',use_clear=True)
+    sc.cycles.samples=SPP; print('VL-Bake s',round(time.time()-t0))
+    allv=[]; VLD={}
+    for o in VLOBJ:
+        me=o.data; n=len(me.vertices); a=np.zeros(n*4,np.float32); me.color_attributes['VL'].data.foreach_get('color',a); a=a.reshape(n,4)[:,:3]
+        e=np.zeros(len(me.edges)*2,np.int32); me.edges.foreach_get('vertices',e); e=e.reshape(-1,2)
+        for _ in range(2):   # Rauschen glätten (Nachbarschaftsmittel)
+            acc=a.copy(); cnt=np.ones(n,np.float32); np.add.at(acc,e[:,0],a[e[:,1]]); np.add.at(acc,e[:,1],a[e[:,0]]); np.add.at(cnt,e[:,0],1); np.add.at(cnt,e[:,1],1); a=0.5*a+0.5*acc/cnt[:,None]
+        VLD[o.name]=a; allv.append(a.max(1))
+    VLSCALE=float(np.percentile(np.concatenate(allv),99.5))
+    for o in VLOBJ:
+        me=o.data; a=np.maximum(VLD[o.name]/VLSCALE,0.03); col=me.color_attributes['Col']; nl=len(me.loops)
+        c=np.zeros(nl*4,np.float32); col.data.foreach_get('color',c); c=c.reshape(nl,4); vi=np.zeros(nl,np.int32); me.loops.foreach_get('vertex_index',vi)
+        c[:,:3]=np.clip(c[:,:3]*a[vi],0,1); col.data.foreach_set('color',c.ravel())
+        me.color_attributes.remove(me.color_attributes['VL']); me.color_attributes.active_color=me.color_attributes['Col']
+        try: me.color_attributes.render_color_index=me.color_attributes.active_color_index
+        except Exception: pass
+    print('VL scale',round(VLSCALE,4),len(VLOBJ),'Objekte')
 for m in bpy.data.materials:
     for n in [n for n in m.node_tree.nodes if n.name=='LMBAKE' or n.bl_idname=='ShaderNodeUVMap']: m.node_tree.nodes.remove(n)
 # ================================================================== Export: statisch je Material zusammengefasst, bewegliche Teile einzeln
@@ -832,7 +886,7 @@ print('Export-Objekte',len(tris),'Tris gesamt',sum(tris.values()))
 bpy.ops.export_scene.gltf(filepath=AS+'/warteraum.glb',export_format='GLB',export_texcoords=True,export_normals=True,export_vertex_color='ACTIVE',export_image_format='WEBP',export_image_quality=88,
     export_materials='EXPORT',export_yup=True,export_apply=False,export_lights=False,export_cameras=False,use_selection=False,export_tangents=False)
 json.dump({'movers':MOV,'anchors':{k:to3(v) for k,v in ANCH.items()},'lamps':[to3(l) for l in LAMPS],'red':[to3(p) for p in REDL],'sconces':[to3(WP(W,a,b,0.035)) for W,a,b in SCON],
-   'window':to3(WP(WN,4.0,1.5,0.3)),'shaft':to3(((xa+xb)/2,-2.6,1.2)),'tris':tris,'lm':LM,'colliders':[c[:4] for c in COLL]},open(AS+'/scene.json','w'),indent=1)
+   'window':to3(WP(WN,4.0,1.5,0.3)),'vlScale':VLSCALE,'vl':VLMATS,'shaft':to3(((xa+xb)/2,-2.6,1.2)),'tris':tris,'lm':LM,'colliders':[c[:4] for c in COLL]},open(AS+'/scene.json','w'),indent=1)
 bpy.ops.wm.save_as_mainfile(filepath=HERE+'/warteraum.blend',compress=True,relative_remap=True)
 bpy.ops.file.make_paths_relative(); bpy.ops.wm.save_mainfile(compress=True)
 print('FERTIG')

diff --git a/v3/tools/gfx_warteraum/gen_beetle.py b/v3/tools/gfx_warteraum/gen_beetle.py
@@ -45,9 +45,31 @@ A.paste(pinup(B+'/pinup_revue.jpg',[
 A.save(SRC+'/pinups.png')
 J=json.load(open(SRC+'/atlas.json')); J['pinups']={'gruft':[0,0,512,683],'revue':[512,0,512,683],'size':1024}
 json.dump(J,open(SRC+'/atlas.json','w'),indent=1)
+# v7: Schönheitskönigin wie Pete 02 – kräftig teal-grüne Haut, leuchtend korallenrotes Haar, Schärpe „MISS JENSEITS“ (auf dem 864x1152-Konzeptbild)
+def frl_look(im):
+    import cv2, math
+    a=np.asarray(im.convert('RGB')).astype(np.uint8); Hh,Ww=a.shape[:2]
+    hsv=cv2.cvtColor(a,cv2.COLOR_RGB2HSV).astype(float); H=hsv[...,0]*2; S=hsv[...,1]/255; V=hsv[...,2]/255
+    yy=np.mgrid[0:Hh,0:Ww][0]/Hh; f=a.astype(np.float32)/255; r,g=f[...,0],f[...,1]
+    skin=(np.clip((g-r)*14,0,1)*np.clip((S-0.035)*14,0,1)*np.clip((V-0.12)*6,0,1)).astype(np.float32)
+    hair=(((H>330)|(H<20))&(S>0.15)&(S<0.62)&(V>0.5)&(yy<0.2)).astype(np.float32)
+    skin=cv2.GaussianBlur(skin,(0,0),1.0); hair=cv2.GaussianBlur(cv2.morphologyEx(hair,cv2.MORPH_OPEN,np.ones((3,3),np.uint8)),(0,0),1.5)
+    h2=np.where(hair>0.01,4,H); s2=np.where(hair>0.01,np.clip(S*1.6+0.3,0,0.85),S); v2=np.where(hair>0.01,np.clip(V*1.02,0,1),V)
+    out=cv2.cvtColor(np.stack([h2/2,s2*255,v2*255],-1).clip(0,255).astype(np.uint8),cv2.COLOR_HSV2RGB).astype(float)
+    hm=hair[...,None]; res=a*(1-hm)+out*hm
+    L=(0.3*res[...,0]+0.59*res[...,1]+0.11*res[...,2])[...,None]; tg=np.array([0.20,0.66,0.52]); tl=0.3*tg[0]+0.59*tg[1]+0.11*tg[2]
+    teal=np.clip(L/tl*tg*0.86,0,255); sm=skin[...,None]; res=res*(1-sm)+teal*sm
+    im=Image.fromarray(res.clip(0,255).astype(np.uint8)).convert('RGBA')
+    p0,p1=(358,316),(508,524); Ln=math.hypot(p1[0]-p0[0],p1[1]-p0[1]); ang=math.degrees(math.atan2(p1[1]-p0[1],p1[0]-p0[0]))
+    fnt=F('Playfair Display SC/PlayfairDisplaySC-Bold.ttf',25); W_=int(Ln); T=Image.new('RGBA',(W_,44),(0,0,0,0)); d=ImageDraw.Draw(T); txt='MISS JENSEITS'; bb=d.textbbox((0,0),txt,font=fnt)
+    d.text(((W_-(bb[2]-bb[0]))/2-bb[0],(44-(bb[3]-bb[1]))/2-bb[1]),txt,font=fnt,fill=(120,26,36,235))
+    R=T.rotate(-ang,expand=True,resample=Image.BICUBIC); cx,cy=(p0[0]+p1[0])/2,(p0[1]+p1[1])/2
+    im.alpha_composite(R,(int(cx-R.width/2),int(cy-R.height/2))); return im.convert('RGB')
 # 3) Figuren-Texturen (Konzeptbilder 864x1152 -> 768x1024)
 for n in ['oma','gruen','brand','jaeger','taucher','assi','frl','decke']:
-    im=Image.open(HERE+'/fig/in/%s.jpg'%n).convert('RGB').resize((768,1024),Image.LANCZOS)
+    im=Image.open(HERE+'/fig/in/%s.jpg'%n).convert('RGB')
+    if n=='frl': im=frl_look(im)
+    im=im.resize((768,1024),Image.LANCZOS)
     if n=='assi':   # Totenblässe: Hauttöne (r>g>b, wenig gesättigt) Richtung bläuliches Porzellan ziehen, Paillettenrot bleibt
         a=np.asarray(im).astype(float)/255; r,g,b_=a[...,0],a[...,1],a[...,2]
         m=np.clip((g/(r+1e-3)-0.55)*5,0,1)*np.clip((r-b_)*8,0,1)*np.clip((r-0.35)*4,0,1)*(r>=g)
